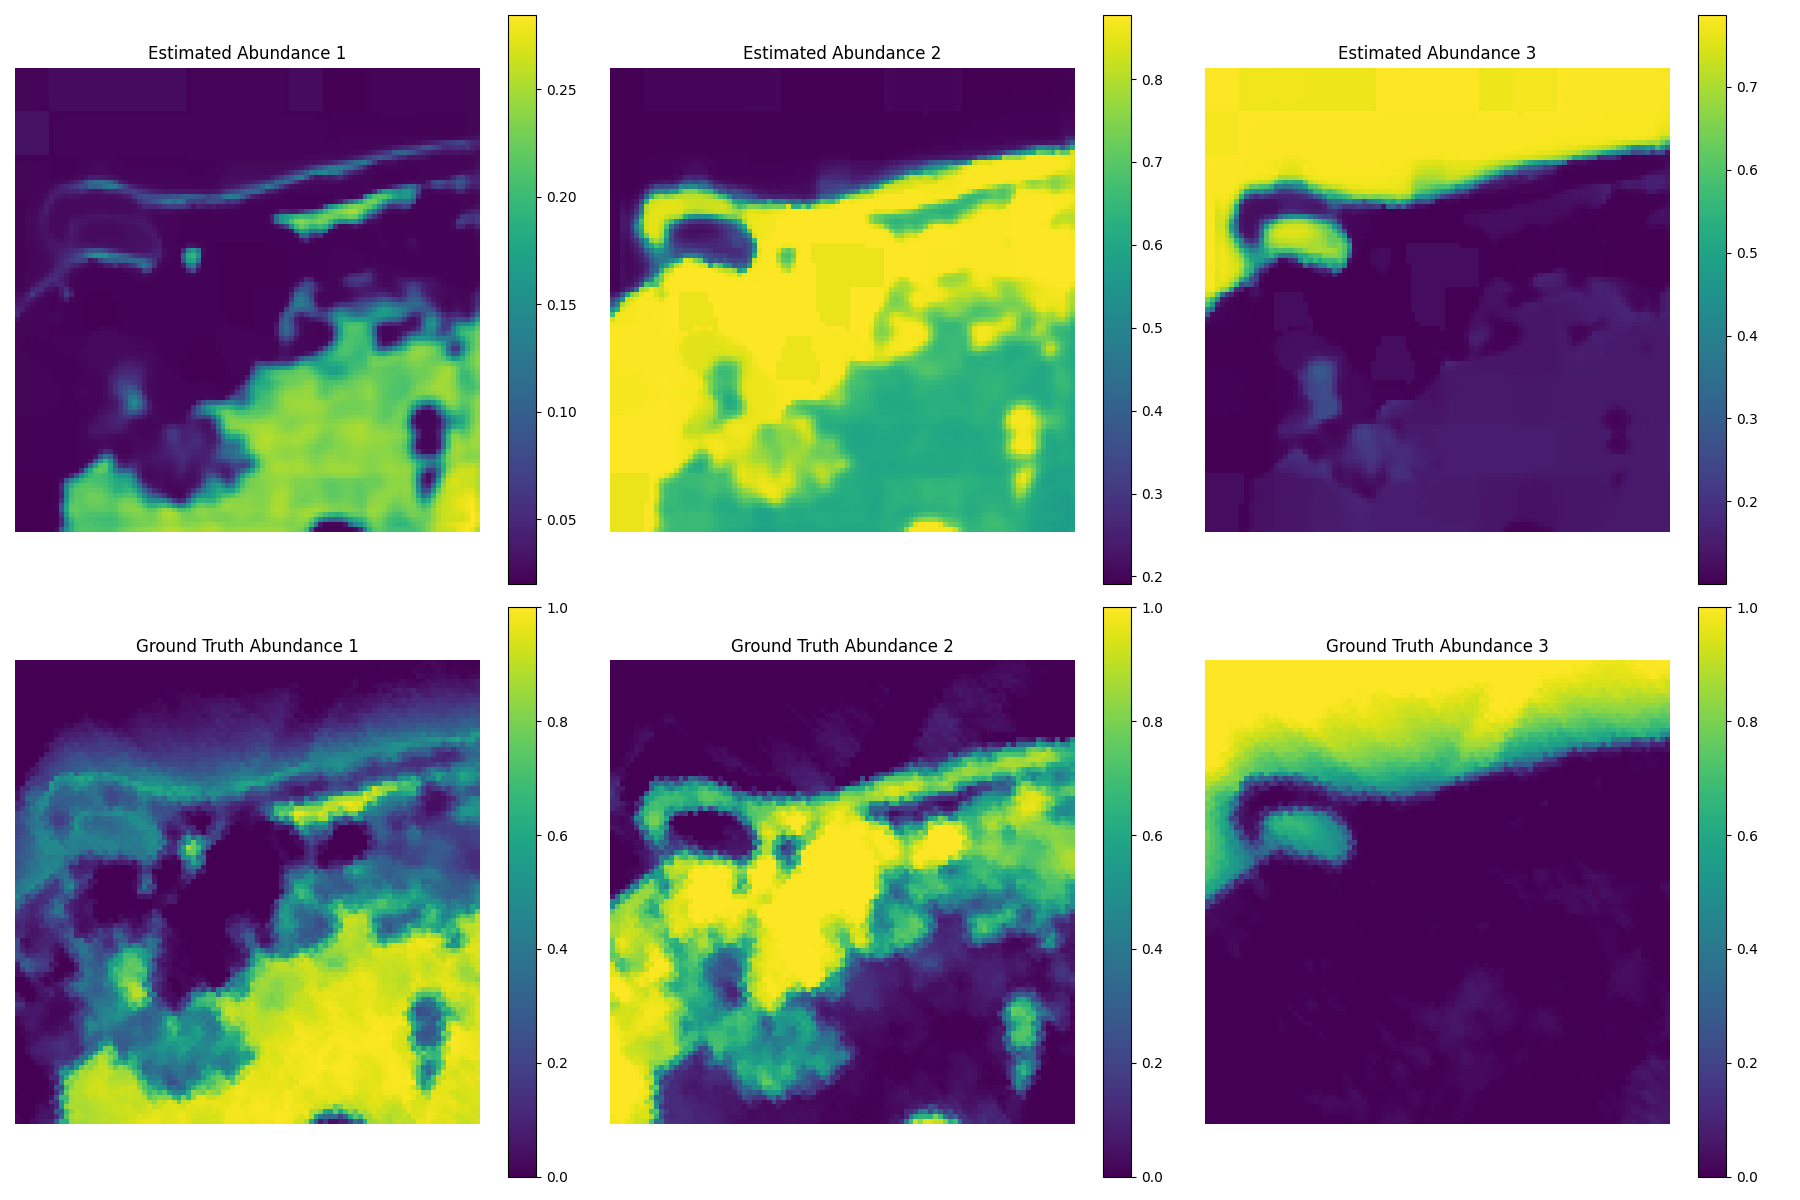
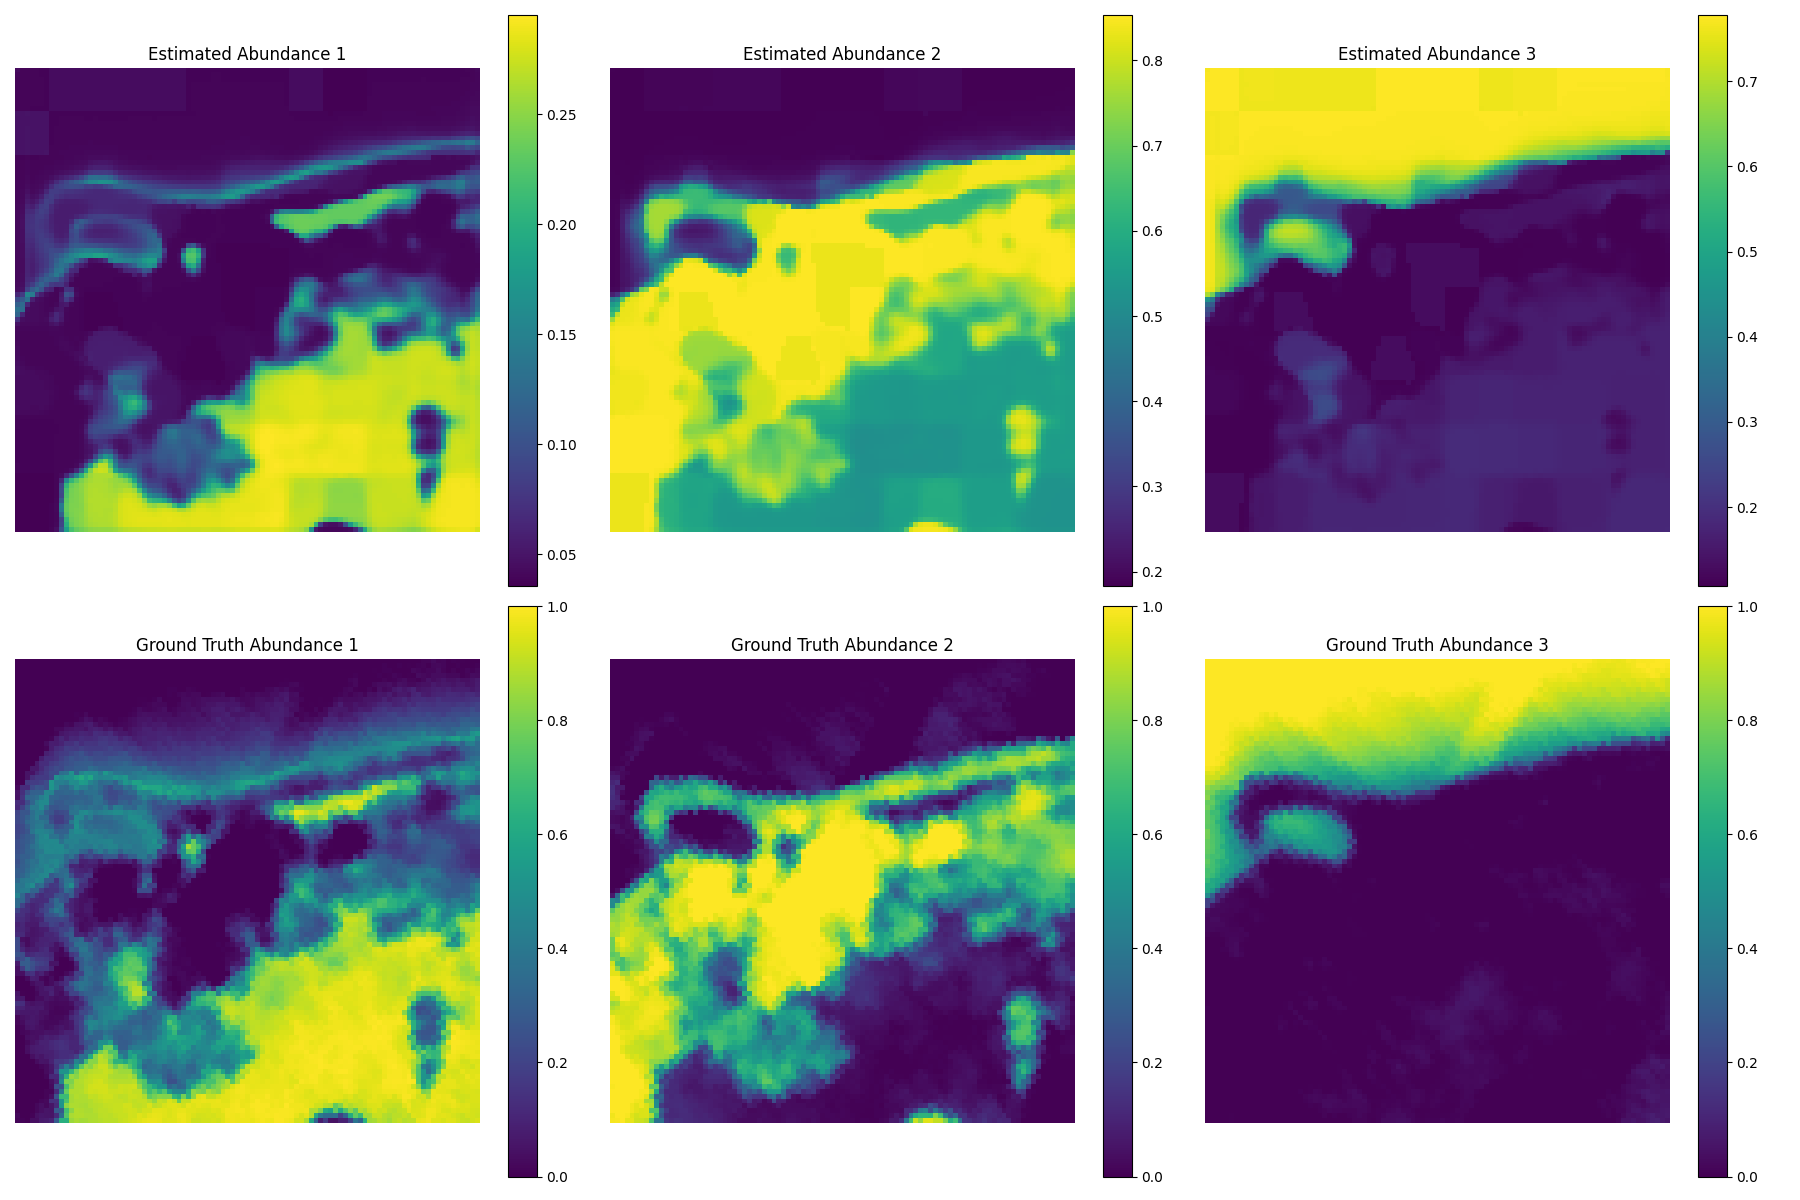
Refactor: Adjust temperature and power scaling for softmax distributions, enhance abundance balance and entropy constraints, and introduce band variance loss for improved pixel mixing in training

diff --git a/hsu.py b/hsu.py
@@ -224,15 +224,12 @@ class CrossAttentionFusion(nn.Module):
         FC = torch.sigmoid(self.linear_local(FC_input))  # [B, P, H, W]
         SG_hat = self.beta * FC * SC + SG
 
-        # Use very low temperature to force sharp distributions
-        # Then apply power scaling to further sharpen
-        temperature = 0.3  # Much sharper softmax
+        # Relaxed temperature and power scaling for more realistic mixed pixels
+        temperature = 0.6
         S = F.softmax((SG_hat + SC_hat) / temperature, dim=1)
-        # Power scaling: S^power makes distributions even sharper
-        # This pushes values closer to 0 or 1
-        power = 1.5
-        S = torch.pow(S + 1e-8, 1.0 / power)  # Inverse power = sharper
-        S = S / (S.sum(dim=1, keepdim=True) + 1e-8)  # Renormalize
+        power = 1.2
+        S = torch.pow(S + 1e-8, 1.0 / power)
+        S = S / (S.sum(dim=1, keepdim=True) + 1e-8)
         return S
 
 # ==========================================
@@ -339,10 +336,10 @@ class ACDEDecoder(nn.Module):
                 weights = F.softmax(weights_logits, dim=0)  # [num_pixels]
                 endmember_adaptive = torch.sum(
                     weights.unsqueeze(-1) * class_pixels, dim=0)  # [C]
-                # Reduce adaptive ratio to prevent collapse (50% adaptive, 50% base)
+                # Preserve base endmembers more strongly (80% base, 20% adaptive)
                 # This prevents endmembers from collapsing to average pixel
-                M_adaptive[:, p] = 0.5 * \
-                    endmember_adaptive + 0.5 * M_base[:, p]
+                M_adaptive[:, p] = 0.8 * M_base[:, p] + \
+                    0.2 * endmember_adaptive
 
         M_constrained = torch.clamp(F.relu(M_adaptive), min=0.0, max=2.0)
 
@@ -479,11 +476,10 @@ class MSGACD_Unmixer(nn.Module):
         global_abund_pixel = global_abund_pixel.permute(
             0, 2, 1).view(B, -1, H, W)
 
-        # Use very low temperature + power scaling for sharp abundances
-        temperature = 0.3
+        # Relaxed temperature + power scaling for more realistic abundances
+        temperature = 0.6
         global_abund_pixel = F.softmax(global_abund_pixel / temperature, dim=1)
-        # Power scaling to sharpen
-        power = 1.5
+        power = 1.2
         global_abund_pixel = torch.pow(global_abund_pixel + 1e-8, 1.0 / power)
         global_abund_pixel = global_abund_pixel / \
             (global_abund_pixel.sum(dim=1, keepdim=True) + 1e-8)
@@ -774,6 +770,13 @@ def train_unmixer(data_path=None, endmember_path=None):
         l_sad = sad_loss(img_crop, recon_crop)
         l_mse = F.mse_loss(img_crop, recon_crop)
 
+        # Band variance loss: prevent dumping error into specific spectral ranges
+        l_recon_per_band = torch.mean(
+            (img_crop - recon_crop) ** 2,
+            dim=(2, 3)
+        )  # [B, C]
+        l_band_var = torch.var(l_recon_per_band)
+
         l_sparse = torch.mean(torch.sqrt(
             A + 1e-8)) if epoch >= 150 else torch.tensor(0.0, device=device)
         l_cluster = soft_clustering_loss(
@@ -800,10 +803,14 @@ def train_unmixer(data_path=None, endmember_path=None):
             l_endmember_sad = l_endmember_sad / num_endmembers
 
         mean_abund_per_endmember = torch.mean(A, dim=(0, 2, 3))  # [P]
-        target_mean = 1.0 / num_endmembers
+        # Relaxed target: use clamped actual mean instead of forcing perfect balance
+        target_mean = torch.clamp(
+            mean_abund_per_endmember.detach(),
+            min=0.05,
+            max=0.7
+        )
 
-        # CRITICAL: Strong balance loss to prevent collapse
-        # Use squared error with high penalty for deviation
+        # Relaxed balance loss to prevent collapse without forcing perfect balance
         l_abundance_balance = torch.mean(
             (mean_abund_per_endmember - target_mean) ** 2)
 
@@ -819,30 +826,29 @@ def train_unmixer(data_path=None, endmember_path=None):
         max_abund_per_pixel = torch.max(A, dim=1)[0]  # [B, H, W]
         l_abundance_range = torch.mean(torch.relu(0.8 - max_abund_per_pixel))
 
-        # CRITICAL: Encourage sparsity per pixel (one endmember close to 1.0)
-        # Entropy loss - low entropy = sparse (one dominant endmember)
+        # Allow more mixed pixels - relaxed entropy target
         entropy_per_pixel = - \
             torch.sum(A * torch.log(A + 1e-8), dim=1)  # [B, H, W]
-        # Target entropy for 3 endmembers: log(3) ≈ 1.1 for uniform, 0 for pure
-        # We want strong sparsity: target entropy ≈ 0.1 (many pure pixels)
-        target_entropy = 0.1
+        # Target entropy allows more mixed pixels (0.3 instead of 0.1)
+        target_entropy = 0.3
         l_entropy = torch.mean((entropy_per_pixel - target_entropy) ** 2)
 
-        # Directly encourage high max abundance per pixel
-        # Penalize when max is too low (stronger than range loss)
-        l_max_abund = torch.mean(torch.relu(0.9 - max_abund_per_pixel) ** 2)
+        # Relaxed max abundance threshold to allow more mixed pixels
+        l_max_abund = torch.mean(torch.relu(0.8 - max_abund_per_pixel) ** 2)
 
         # Purity reward: directly reward pixels with one endmember > 0.8
         purity_mask = (max_abund_per_pixel > 0.8).float()
         # Negative = reward (we'll negate in loss)
         l_purity = -torch.mean(purity_mask)
 
-        # Penalize uniform distributions: if max < 0.5, it's too uniform
-        l_uniform_penalty = torch.mean(
-            torch.relu(0.5 - max_abund_per_pixel) ** 2)
+        # Removed l_uniform_penalty to reduce abundance tyranny
+        l_uniform_penalty = torch.tensor(0.0, device=device)
 
         endmember_norms = torch.norm(endmembers, p=2, dim=0)  # [P]
         l_endmember_collapse = torch.mean(torch.exp(-endmember_norms * 5.0))
+
+        # L2 scale regularization: prevent amplitude cheating
+        l_scale = torch.mean((endmember_norms - 1.0) ** 2)
 
         # Compute orthogonality loss
         l_ortho = endmember_orthogonality_loss(endmembers)
@@ -876,11 +882,19 @@ def train_unmixer(data_path=None, endmember_path=None):
             w_graph = 0.0
             w_dirichlet = 0.0
             w_tv = 0.0
-            w_ortho = 0.05 + 0.03 * progress
-            w_endmember_sad = (
-                0.3 + 0.2 * progress) if M_true is not None else 0.0
-            w_abundance_balance = 2.0 + 2.0 * progress
-            w_abundance_max_constraint = 3.0 + 3.0 * progress
+            w_ortho = (0.05 + 0.03 * progress) * 0.7
+            # Increase endmember SAD earlier (starts at epoch 0, ramps up faster)
+            if epoch >= 30:
+                w_endmember_sad = (
+                    0.5 + 0.3 * ((epoch - 30) / 20.0)) if M_true is not None else 0.0
+            else:
+                w_endmember_sad = (
+                    0.3 + 0.2 * (epoch / 30.0)) if M_true is not None else 0.0
+            w_abundance_balance = (2.0 + 2.0 * progress) * \
+                0.65  # Reduced by 35%
+            w_abundance_max_constraint = (
+                3.0 + 3.0 * progress) * 0.65  # Reduced by 35%
+            w_scale = 0.0  # No scale regularization in early phase
             w_abundance_min = 0.5 + 0.5 * progress
             w_abundance_range = 0.2 + 0.2 * progress
             w_entropy = 0.2 + 0.2 * progress
@@ -888,6 +902,7 @@ def train_unmixer(data_path=None, endmember_path=None):
             w_purity = 0.1 + 0.1 * progress
             w_uniform_penalty = 0.2 + 0.2 * progress
             w_endmember_collapse = 0.05 + 0.05 * progress
+            w_band_var = 0.0  # No band variance loss in early phase
             l_dirichlet = torch.tensor(0.0, device=device)
             l_tv_spatial = torch.tensor(0.0, device=device)
             l_graph = torch.tensor(0.0, device=device)
@@ -902,11 +917,14 @@ def train_unmixer(data_path=None, endmember_path=None):
             w_graph = 0.0
             w_dirichlet = 0.0
             w_tv = 0.1 * progress
-            w_ortho = 0.08 + 0.04 * progress
+            w_ortho = (0.08 + 0.04 * progress) * 0.7
             w_endmember_sad = (
                 0.5 + 0.3 * progress) if M_true is not None else 0.0
-            w_abundance_balance = 4.0 + 4.0 * progress
-            w_abundance_max_constraint = 6.0 + 6.0 * progress
+            w_abundance_balance = (4.0 + 4.0 * progress) * \
+                0.65  # Reduced by 35%
+            w_abundance_max_constraint = (
+                6.0 + 6.0 * progress) * 0.65  # Reduced by 35%
+            w_scale = 0.0  # No scale regularization in phase 2
             w_abundance_min = 1.0 + 1.5 * progress
             w_abundance_range = 0.4 + 0.4 * progress
             w_entropy = 0.4 + 0.4 * progress
@@ -914,6 +932,7 @@ def train_unmixer(data_path=None, endmember_path=None):
             w_purity = 0.2 + 0.2 * progress
             w_uniform_penalty = 0.4 + 0.4 * progress
             w_endmember_collapse = 0.1 + 0.05 * progress
+            w_band_var = 0.0  # No band variance loss in phase 2
             l_tv_spatial = reweighted_tv_loss(
                 A, img_crop, alpha=1.0) if progress > 0.5 else torch.tensor(0.0, device=device)
             l_graph = torch.tensor(0.0, device=device)
@@ -924,6 +943,14 @@ def train_unmixer(data_path=None, endmember_path=None):
             # 0->1 over first 20 epochs
             warmup_progress = min((epoch - 150) / 20.0, 1.0)
 
+            # After epoch 200, let endmembers win: reduce abundance weights further
+            if epoch >= 200:
+                abundance_reduction = 0.7  # Additional 30% reduction
+                w_endmember_sad_val = 1.4
+            else:
+                abundance_reduction = 1.0  # No additional reduction before epoch 200
+                w_endmember_sad_val = 0.8 + 0.15 * phase3_progress * warmup_progress
+
             w_sad = 2.0
             w_mse = 1.0
             w_sparse = 0.1
@@ -932,12 +959,16 @@ def train_unmixer(data_path=None, endmember_path=None):
             w_graph = 0.01 * phase3_progress * warmup_progress  # Very gradual
             w_dirichlet = 0.0
             w_tv = 0.1 + 0.03 * phase3_progress * warmup_progress
-            w_ortho = 0.12 + 0.05 * phase3_progress * warmup_progress
-            w_endmember_sad = (
-                0.8 + 0.15 * phase3_progress * warmup_progress) if M_true is not None else 0.0
-            # Start from Phase 2 end values and ramp very slowly
-            w_abundance_balance = 8.0 + 2.0 * phase3_progress * warmup_progress
-            w_abundance_max_constraint = 12.0 + 3.0 * phase3_progress * warmup_progress
+            w_ortho = (0.12 + 0.05 * phase3_progress * warmup_progress) * 0.7
+            w_endmember_sad = w_endmember_sad_val if M_true is not None else 0.0
+            # Start from Phase 2 end values and ramp very slowly (reduced by 35%, then additional 30% after epoch 200)
+            w_abundance_balance = (
+                8.0 + 2.0 * phase3_progress * warmup_progress) * 0.65 * abundance_reduction
+            w_abundance_max_constraint = (
+                12.0 + 3.0 * phase3_progress * warmup_progress) * 0.65 * abundance_reduction
+            # Gradually introduce scale regularization
+            w_scale = 0.02 + 0.03 * phase3_progress * warmup_progress
+            w_band_var = 0.02  # Band variance loss weight
             w_abundance_min = 2.5 + 1.0 * phase3_progress * warmup_progress
             w_abundance_range = 0.8 + 0.4 * phase3_progress * warmup_progress
             w_entropy = 0.8 + 0.4 * phase3_progress * warmup_progress
@@ -960,7 +991,8 @@ def train_unmixer(data_path=None, endmember_path=None):
             else:
                 l_graph = torch.tensor(0.0, device=device)
         else:
-            # Phase 4: Full strength (stable, matching Phase 3 end)
+            # Phase 4: Full strength - prioritize endmember SAD, relax abundance constraints
+            # After epoch 200, further reduce abundance weights by 30% and increase endmember SAD
             w_sad = 2.0
             w_mse = 1.0
             w_sparse = 0.1
@@ -969,10 +1001,13 @@ def train_unmixer(data_path=None, endmember_path=None):
             w_graph = 0.01
             w_dirichlet = 0.0
             w_tv = 0.13
-            w_ortho = 0.17
-            w_endmember_sad = 0.95 if M_true is not None else 0.0
-            w_abundance_balance = 10.0
-            w_abundance_max_constraint = 15.0
+            w_ortho = 0.17 * 0.7
+            # Increased to prioritize endmember accuracy (1.4 after epoch 200)
+            w_endmember_sad = 1.4 if M_true is not None else 0.0
+            # Reduced from 10.0 (40% reduction), then additional 30% = 6.0 * 0.7 = 4.2
+            w_abundance_balance = 6.0 * 0.7
+            # Reduced from 15.0 (40% reduction), then additional 30% = 9.0 * 0.7 = 6.3
+            w_abundance_max_constraint = 9.0 * 0.7
             w_abundance_min = 3.5
             w_abundance_range = 1.2
             w_entropy = 1.2
@@ -980,6 +1015,8 @@ def train_unmixer(data_path=None, endmember_path=None):
             w_purity = 0.6
             w_uniform_penalty = 1.2
             w_endmember_collapse = 0.18
+            w_scale = 0.05  # L2 scale regularization weight
+            w_band_var = 0.02  # Band variance loss weight
             l_tv_spatial = reweighted_tv_loss(A, img_crop, alpha=1.0)
             B, K, P = global_abund.shape
             adj_float = adj.float()
@@ -1012,7 +1049,9 @@ def train_unmixer(data_path=None, endmember_path=None):
             w_max_abund * l_max_abund +
             w_purity * l_purity +
             w_uniform_penalty * l_uniform_penalty +
-            w_endmember_collapse * l_endmember_collapse
+            w_endmember_collapse * l_endmember_collapse +
+            w_scale * l_scale +
+            w_band_var * l_band_var
         )
 
         # Adaptive scaling: if constraints dominate, scale them down
@@ -1060,7 +1099,9 @@ def train_unmixer(data_path=None, endmember_path=None):
             'max_abund': l_max_abund.item(),
             'purity': l_purity.item(),
             'uniform_penalty': l_uniform_penalty.item(),
-            'endmember_collapse': l_endmember_collapse.item()
+            'endmember_collapse': l_endmember_collapse.item(),
+            'scale': l_scale.item(),
+            'band_var': l_band_var.item()
         })
 
         if (epoch + 1) % 10 == 0:
